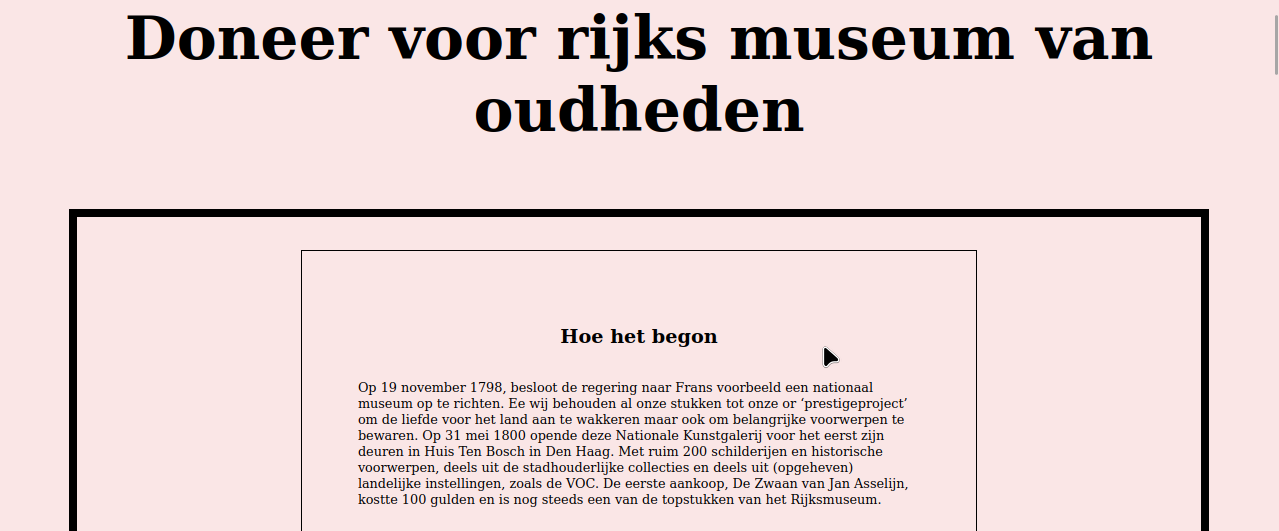
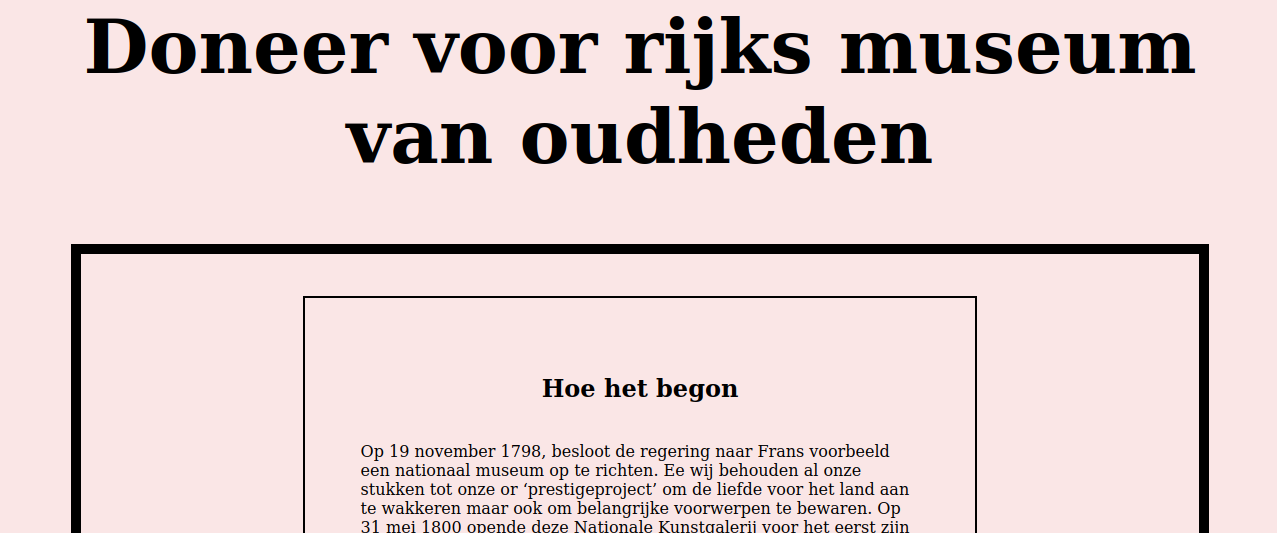
main.css index.css projecten.css  index.html projecten.html  nieuwe goede doel images
added rectc
changed containerbutton.
aded headf00t

diff --git a/map_digitaal_portofolio/projecten.html b/map_digitaal_portofolio/projecten.html
@@ -21,35 +21,34 @@
 </head>
 
 <body>
-  <header>
-    <nav class="navbar">
-      <!-- <div class="container"> -->
-      <ul>
-        <li>
-          <div class="dot" href="index.html"><a href="index.html">Home</a></div>
-        </li>
-        <li>
-          <div class="mdot dot" href="projecten.html"><a href="projecten.html">Projecten</a></div>
-        </li>
-        <!-- <li>
-          <div class="dot" href="contact.html"><a href="contact.html">Contact</a></div>
-        </li>
-        <li>
-          <div class="dot" href="info.php"><a href="info.php">php</a></div> 
-        </li> -->
-        <li>
-         <div class="dot" href="cv-kevin.pdf"><a target="_blank" href="cv-kevin.pdf">CV</a></div>
-        </li>
-        <a class="nav_logo" href="">   
+  <header>     
+      <nav class="navbar headfoot">  
+        <!-- <div class="container"> -->
+        <ul>
+          <li>
+            <div class="dot" href="index.html"><a class="active0" href="index.html">Home</a></div>
+          </li>
+          <li>
+            <div class="" href="projecten.html"><a class="active0 active2" href="projecten.html">Projecten</a></div>
+         </li>
+          <!-- <li>
+            <div class="dot" href="contact.html"><a href="contact.html">Contact</a></div>
+          </li> -->
+          <!-- <li>
+            <div class="dot" href="map_digitaal_portofolio/info.php"><a href="info.php">php</a></div>
+          </li> -->
+          <li>
+            <div class="dot cv" href="cv-kevin.pdf"><a target="_blank" class="active0" href="cv-kevin.pdf">CV</a></div>
+          </li>   
+          <a class="nav_logo" href="">   
           <span class="spangroot" href="projecten.html">Kevin software developer</span>
           </a>
-      </ul>
+        </ul>
       <!-- </div> -->
-    </nav>
-  </header>
+  </nav>
+  </header> 
 
-
-    <!-- <div class="projectenkeuze"> 
+      <!-- <div class="projectenkeuze"> 
       don beton 
       <a onclick="myFunction" href="projecten.html" class="betonspeciaal"  target="_self">School Projecten</a>
       <a onclick="myFunction" href="projecten_eigen.html" class="betonspeciaal"  target="_self">Mijn Eigen Projecten</a>
@@ -60,13 +59,13 @@
       <!-- <div class="per1">periode 1</div> -->
     <div class="periode-container ">
 
-     <a class="project" href="andere_projecten/Eerste_website/ik-bal.html">
+     <a class="project" href="andere_projecten/Eerste_website/ik-bal.html" target="_blank">
       <!-- <span class="beton" href="andere_projecten/Eerste_website/ik-bal.html" target="_blank">Mijn eerste website</span> -->
       <div class="gridtekst"> <h1 class="hoofdtekst">Dit is mijn eerste website het eerste wat ik heb geprogrameerd</h1> Deze website heb ik gemaakt toen ik hier elke donderdag zat in het vorige school jaar.</div>
       <img  class="projectimg" src="images/sherm_afdruk_Eerste_website.png" alt="">
      </a>
 
-     <a class="project" href="andere_projecten/Eerste_website/ik-bal.html">
+     <a class="project" href="andere_projecten/goede-doel/index.html" target="_blank">
       <!-- <a class="beton" href="andere_projecten/goede-doel/index.html" target="_blank">goede doel</a> -->
       <div class="gridtekst"> <h1 class="hoofdtekst">Dit is een opdracht voor school om een website te maken voor een goede doel</h1>Deze goede doel gaat over het rijks museum.</div>
       <img  class="projectimg" src="images/sherm_afdruk_goede_doel.png" alt="">
@@ -155,7 +154,7 @@
 
   </section>
 
-<footer class="footer">
+<footer class="footer headfoot">
   <ul>
          <li>
             <div><a href="https://github.com/Kevin-M100o000M" target="_blank">Github kevin-M100o000M</a></div>

diff --git a/map_digitaal_portofolio/css/main.css b/map_digitaal_portofolio/css/main.css
@@ -16,8 +16,8 @@
 }
 body {
     margin: 0px;
-     background-image: url(../images/code.png); 
-     background: black;
+     /* background-image: url(../images/code.png);  */
+     background-color: rgb(0, 0, 0);
     /* backdrop-filter: blur(8px); */
     /* temporary */
     /* backdrop-filter: invert(90%);  */
@@ -32,7 +32,17 @@ header {
 main {
     margin: 0px;
 }
-
+.headfoot{
+    background-color: rgb(24, 23, 23);
+    /* margin: 20px; */
+    /* border: 2px solid whitesmoke; */
+}
+header{
+    border-bottom: 3.5px solid whitesmoke;
+}
+footer{
+    border-top: 2px solid whitesmoke;
+}
 .navbar ul {
     list-style-type: none;
     /* background-image: linear-gradient(orangered ,whitesmoke); */
@@ -40,10 +50,23 @@ main {
     padding: 10px;
     overflow: hidden;
 }
-
-.navbar a {
+.active0 {
     text-decoration: none;
-    font-size: 10px;
+    /* font-size: 10px; */
+    /* height: 124px; */
+    color: whitesmoke;
+    font-size: larger;
+    font: 800 30px 'LmMilk';
+  /* -webkit-text-fill-color: whitesmoke;
+  -webkit-text-stroke: 1.5px; */
+    display: block;
+    padding: 10px;
+
+}
+.active0:hover {
+    text-decoration: underline rgb(243, 67, 67) 4px;
+    transition: 2s;
+    /* font-size: 10px; */
     /* height: 124px; */
     color: whitesmoke;
     font-size: larger;
@@ -66,12 +89,38 @@ main {
     float: left;
     margin: 10px;
 }
-/* .navbar li:hover{
-    text-decoration: underline;
-    color: orangered ;
-} */
 .navbar div {
     text-align: center;
+}
+.active1{
+    /* color: rgb(90, 89, 89); */
+    text-decoration: underline rgb(243, 67, 67) 4px;
+    transition: 2s;
+}
+.active1:hover{
+    /* color: rgb(90, 89, 89); */
+    text-decoration: underline rgb(243, 67, 67) 4px;
+    transition: 2s;
+}
+.active2{
+    /* color: rgb(90, 89, 89); */
+    text-decoration: underline rgb(243, 67, 67) 4px;
+    transition: 2s;
+}
+.active2:hover{
+    /* color: rgb(90, 89, 89); */
+    text-decoration: underline rgb(243, 67, 67) 4px;
+    transition: 2s;
+}
+.cv{
+    border: 2px solid whitesmoke;
+    /* width: 20px; */
+    background-color: rgb(30, 31, 31);
+}
+/* .cv:hover{
+} */
+.cv:active{
+    transform: translateY(2px);
 }
 /* .dot {
     width: 105px;
@@ -95,20 +144,26 @@ main {
 .spangroot{ 
     color: whitesmoke;
     float: left;
-    /* margin: 10px; */
-    font-size: 90px;
-font: 800 36px 'LeMilk';
+    margin: 25px;
+    /* font-size: 90px; */
+font: 800 36px 'LmMilk';
   /* -webkit-text-fill-color: whitesmoke;
   -webkit-text-stroke: 2.75px; */
 
 }
-.spangroot :hover{
-    text-decoration: underline;
+.spangroot:hover{
+    text-decoration: underline rgb(243, 67, 67) 4px;
+    color: whitesmoke;
     transition: 2s;
 }
 .nav_logo{
     margin: -2px;
     float: left;
+}
+.nav_logo:hover{
+    margin: -2px;
+    float: left;
+    /* text-decoration: underline; */
 }
 .footer ul {
     list-style-type: none;
@@ -133,7 +188,14 @@ font: 800 36px 'LeMilk';
     padding: 10px;
 }
 .footer a:active{
+    transform: translateY(4px);
+    transition: 2s;
+    text-decoration: underline rgb(243, 67, 67) 4px;
+}
+.footer a:hover{
     transform: translateY(2px);
+    transition: 2s;
+    text-decoration: underline rgb(243, 67, 67) 4px;
 }
 
 .footer li {
@@ -144,10 +206,6 @@ font: 800 36px 'LeMilk';
     float: left;
     /* margin: 10px; */
 }
-/* .footer li:hover{
-    text-decoration: underline;
-    color: orangered ;
-} */
 .footer div {
     text-align: center;
 }

diff --git a/map_digitaal_portofolio/css/index.css b/map_digitaal_portofolio/css/index.css
@@ -24,17 +24,18 @@ body{
     width: 1100px;
     height: 400px;
     /* background-color:#DADAE3; */
-    background-image: linear-gradient(to right,rgb( 120, 120, 125),(218,218,227));
-    border: solid orangered;
-    border-radius:25px;
+    /* background-image: linear-gradient(to right,rgb( 120, 120, 125),(218,218,227)); */
     margin: 0 auto;
     margin-top: 0px;
 }
-
+.rectc{
+    background-color: rgb(24, 23, 23);
+    border: 15px double whitesmoke;
+    border-radius:25px;
+}
 .rect{
     width: 400px;
     height: 220px;
-    background: black;
     /* border: double 1em transparent ; */
     border: 20px double whitesmoke;
     /* outline: 10px double orangered; */
@@ -52,6 +53,7 @@ h1{
     font-size: 90px;
     /* text-decoration: underline; */
     font: 800 35px 'LmMilk';
+    padding-left: 10%;
   -webkit-text-fill-color: transparent;
   -webkit-text-stroke: 2.4px;
 }
@@ -78,9 +80,9 @@ font: 800 130% 'Monts';
 }
 .imgik {
     border: solid 10px;
-    width: 300px;
+    width: 250px;
     height: 300px;
-    background-color: black;
+    background-color: rgb(14, 14, 14);
     border: 20px double whitesmoke;
     border-radius: 50px;
     /* border-width: 25px; */
@@ -98,7 +100,6 @@ img :hover{
     align-items: center;
     align-self: center;
     justify-content: space-around;
-    background-color: rgba(43, 34, 34, 0.884);
     /* justify-self: flex-end;   */
     /* justify-items: flex-end; 
     /*gap: 20px;*/
@@ -109,18 +110,18 @@ img :hover{
 .containerbutton{
     margin-top: 40px;
     margin: 40px;
+    /* float: left; */
     display: grid;
     /* background-image: linear-gradient(#E4F279,#594F1C); */
     grid-template-columns: repeat(2, 0.3fr 0.3fr);
-    grid-template-rows: repeat(6, );
+    /* grid-template-rows: repeat(6,1fr ); */
     grid-column-gap: 0px;
     grid-row-gap: 20px; 
     padding: 10px 10px 10px 0px;
-    place-items: center;
-    justify-items: center;
-    background-color: rgba(43, 34, 34, 0.884);
-    border: 2px solid orangered;
-    border-radius: 25px;
+    place-items: right;
+    justify-items: left;
+    /* border: 2px solid orangered;
+    border-radius: 25px; */
 }
 .projectcontainer{
     display: grid;

diff --git a/map_digitaal_portofolio/index.html b/map_digitaal_portofolio/index.html
@@ -16,14 +16,14 @@
 <body>     
  
   <header>     
-      <nav class="navbar">  
+      <nav class="navbar headfoot">  
         <!-- <div class="container"> -->
         <ul>
           <li>
-            <div class="mdot dot" href="index.html"><a href="index.html">Home</a></div>
+            <div class="dot" href="index.html"><a class="active0 active1" href="index.html">Home</a></div>
           </li>
           <li>
-            <div class="dot" href="projecten.html"><a href="projecten.html">Projecten</a></div>
+            <div class="" href="projecten.html"><a class="active0" href="projecten.html">Projecten</a></div>
          </li>
           <!-- <li>
             <div class="dot" href="contact.html"><a href="contact.html">Contact</a></div>
@@ -32,7 +32,7 @@
             <div class="dot" href="map_digitaal_portofolio/info.php"><a href="info.php">php</a></div>
           </li> -->
           <li>
-            <div class="dot" href="cv-kevin.pdf"><a target="_blank" href="cv-kevin.pdf">CV</a></div>
+            <div class="dot cv" href="cv-kevin.pdf"><a target="_blank" class="active0" href="cv-kevin.pdf">CV</a></div>
           </li>   
           <a class="nav_logo" href="">   
           <span class="spangroot" href="projecten.html">Kevin software developer</span>
@@ -43,7 +43,7 @@
   </header>
   
   <br>
-  <div class="container">
+  <div class="container rectc">
     <img id="" class="imgik" src="images/welblij.jpg">
     
     
@@ -57,7 +57,7 @@
 <i class="fa-brands fa-github"></i>
  <i class="fa-brands fa-square-github"></i>
    <section>
-    <div class="containerbutton"> 
+    <div class="containerbutton rectc"> 
     <!-- <img src="images/html-logo.png"> -->
      <h1>HTML <br> Intermediate</h1>
  
@@ -86,7 +86,7 @@
       <a class="beton" href="andere_projecten/Htm_ web_0/index0meting.html" target="_self">don beton</a>
     </div>
  -->
-<footer class="footer">
+<footer class="footer headfoot">
   <ul>
          <li>
             <div><a href="https://github.com/Kevin-M100o000M" target="_blank">Github kevin-M100o000M</a></div>

diff --git a/map_digitaal_portofolio/css/projecten.css b/map_digitaal_portofolio/css/projecten.css
@@ -49,7 +49,7 @@ body{
     margin-top: 0px;
     text-decoration: none;
     /* box-shadow: 0px 16px whitesmoke; */
-    border: 5px double whitesmoke;
+    border: 5px solid whitesmoke;
      /* outline: 12px double red;
     outline-offset: 2.5px; */
     display: grid;
@@ -57,14 +57,14 @@ body{
     place-items: center;
  }
 .project:active {
-    box-shadow: 0px 20px whitesmoke;
+    /* box-shadow: 0px 20px whitesmoke; */
     transform: translateY(4px);
 }.project1{
     /* background-color: whitesmoke; */
     margin: 80px;
     text-decoration: none;
     /* box-shadow: 0px 16px whitesmoke; */
-    border: 5px double whitesmoke;
+    border: 5px solid whitesmoke;
      /* outline: 12px double red;
     outline-offset: 2.5px; */
     display: grid;
